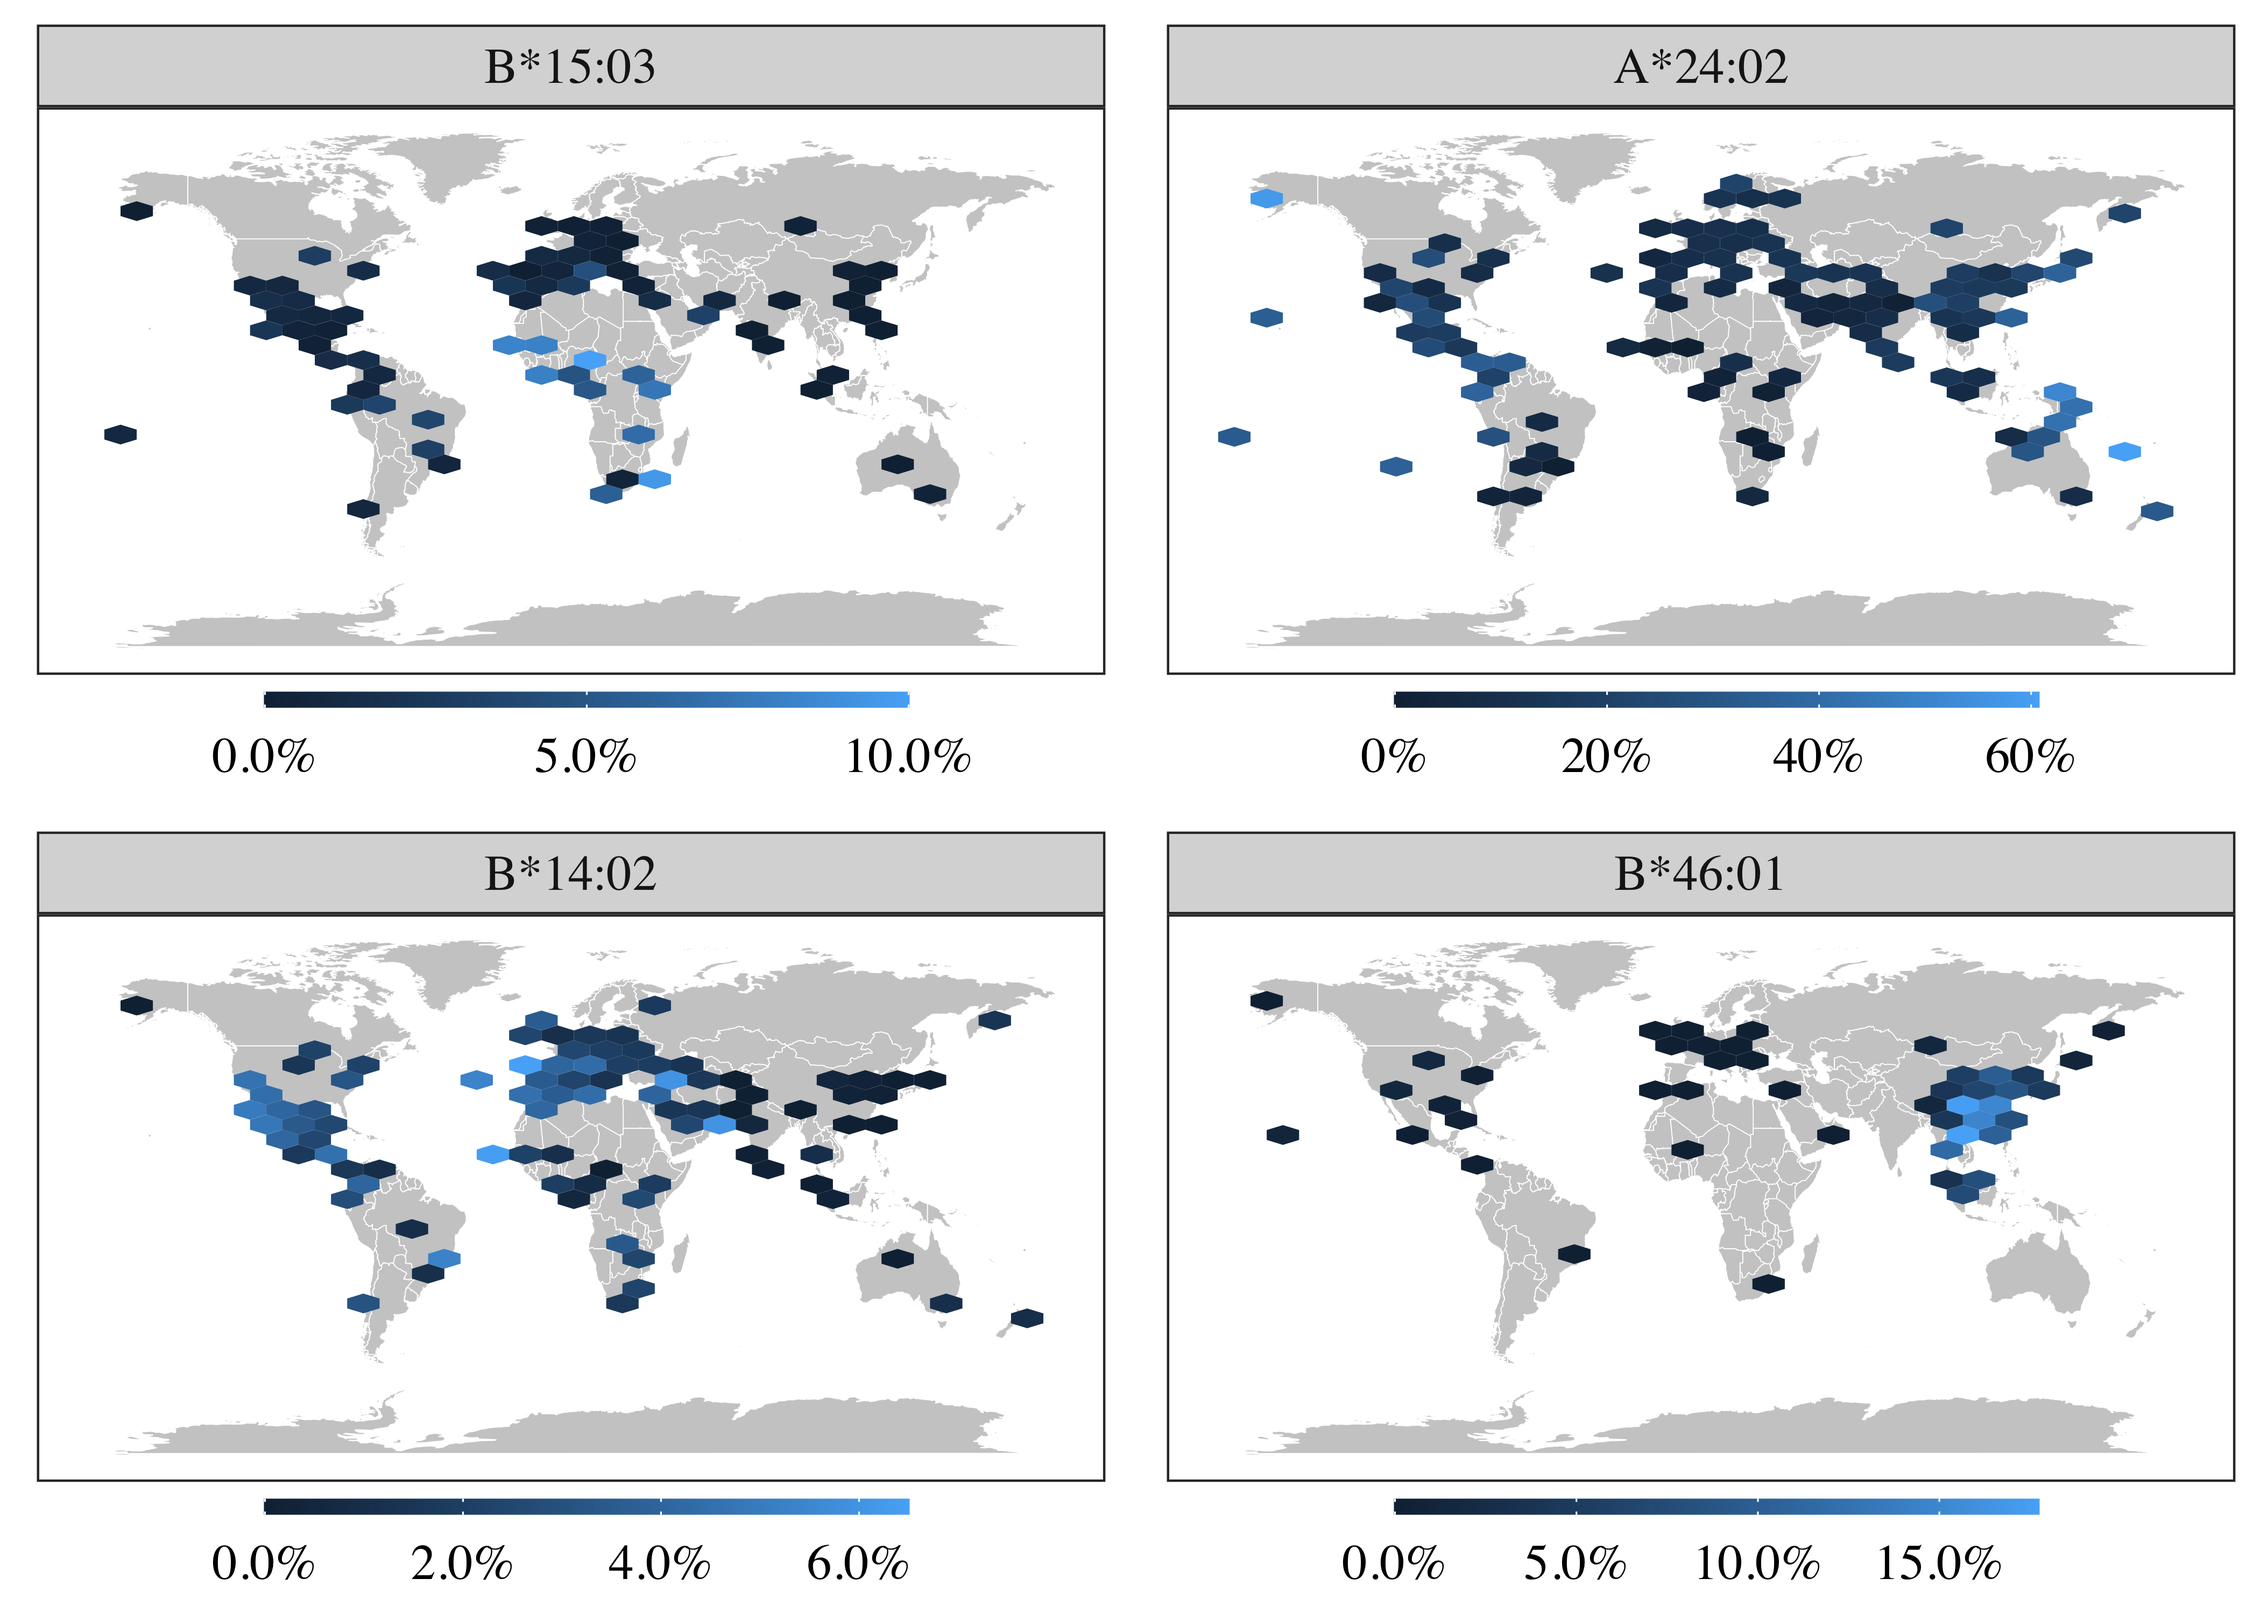
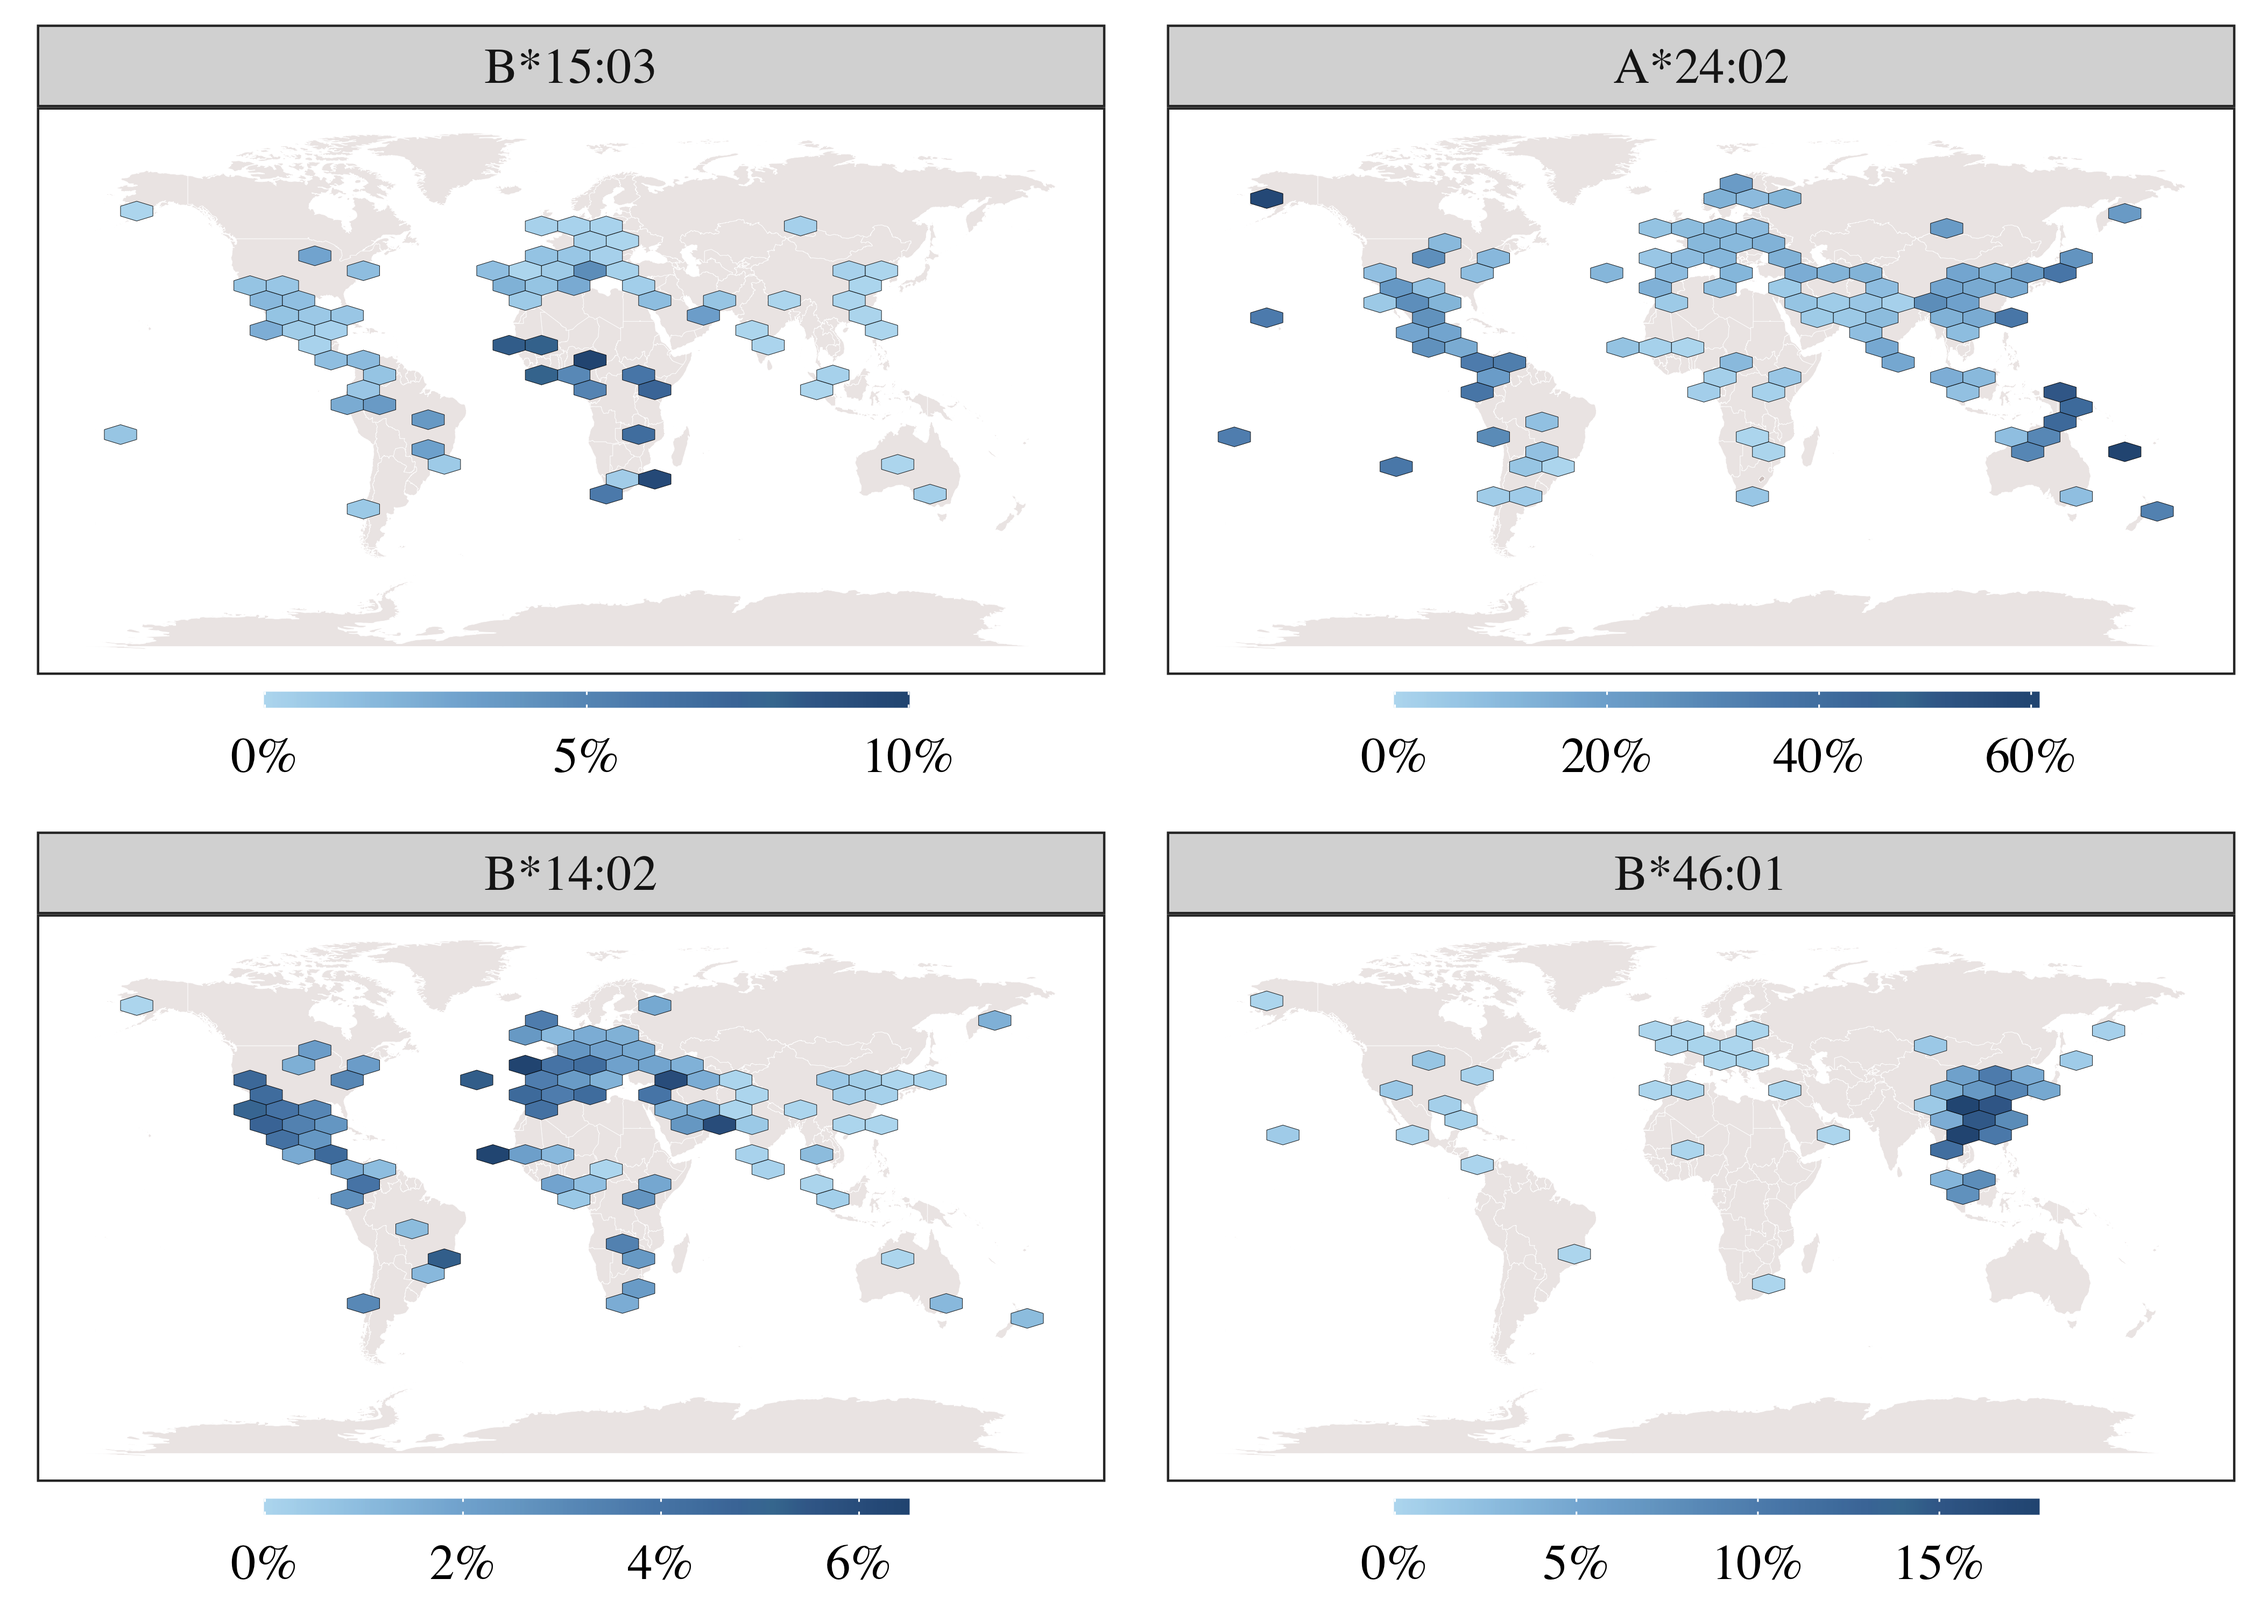
choose final plot

diff --git a/HLApeloMundo.md b/HLApeloMundo.md
@@ -7,7 +7,7 @@ HLA pelo mundo
 library(tidyverse)
 library(rvest)
 #instalações também requeridas: 
-# install.packages(c("hexbin", "cowplot", "maps"))
+# install.packages(c("hexbin", "cowplot", "maps", "ggthemes"))
 ```
 
 ### Funções
@@ -43,15 +43,16 @@ plotmap <- function(df_x) {
     ggplot() +
         geom_map(data = world, map = world,
                  aes(long, lat, map_id = region),
-                 color = "white", fill = "grey80", size = .1) +
+                 color = "white", fill = "#b6a19e", alpha = .25, size = .05) +
         stat_summary_hex(data = df_x, 
-                         aes(long, lat, z = f)) +
-        scale_fill_gradient(NULL,
-                            labels = scales::percent,
-                            breaks = scales::pretty_breaks(3),
-                            guide = guide_colourbar(direction = "horizontal",
-                                                    barwidth = 10,
-                                                    barheight = .25)) +
+                         aes(long, lat, z = f), 
+                         color = "black", size = .05) +
+        ggthemes::scale_fill_gradient_tableau("Blue",
+                                               labels = function(x) scales::percent(x, accuracy=1),
+                                               breaks = scales::pretty_breaks(3),
+                                               guide = guide_colourbar(direction = "horizontal",
+                                                                       barwidth = 10,
+                                                                       barheight = .25)) +
         facet_wrap(~allele, ncol = 2) +
         theme_bw() +
         theme(axis.ticks = element_blank(),
@@ -61,7 +62,8 @@ plotmap <- function(df_x) {
               legend.position = "bottom",
               legend.margin = margin(0, 0, 0, 0),
               legend.box.margin = margin(-10, -10, 0, -10),
-              text = element_text(size = 14, family = "Times"))
+              text = element_text(size = 14, family = "Times")) +
+        labs(fill = NULL)
 }
 ```
 
@@ -149,8 +151,6 @@ allele_freqs_final <- allele_freqs_tidy %>%
 Os pontos de cada amostragem são projetados no mapa. Para pontos muito
 próximos, é tomada uma média das frequências (em bins).
 
-#### Opção 1
-
 ``` r
 world <- map_data("world")
 
@@ -164,87 +164,3 @@ knitr::include_graphics("frequency.png")
 ```
 
 ![](frequency.png)<!-- -->
-
-#### Opção 2
-
-``` r
-plotmap2 <- function(df_x) {
-    ggplot() +
-        geom_map(data = world, map = world,
-                 aes(long, lat, map_id = region),
-                 color = "white", fill = "grey80", size = .1) +
-        stat_summary_hex(data = df_x, 
-                         aes(long, lat, z = f)) +
-        ggthemes::scale_fill_gradient2_tableau(trans = "reverse",
-                                               labels = scales::percent,
-                                               breaks = scales::pretty_breaks(3),
-                                               guide = guide_colourbar(direction = "horizontal",
-                                                                       reverse = TRUE,
-                                                                       barwidth = 10,
-                                                                       barheight = .25)) +
-        facet_wrap(~allele, ncol = 2) +
-        theme_bw() +
-        theme(axis.ticks = element_blank(),
-              axis.text = element_blank(),
-              axis.title = element_blank(),
-              panel.grid = element_blank(),
-              legend.position = "bottom",
-              legend.margin = margin(0, 0, 0, 0),
-              legend.box.margin = margin(-10, -10, 0, -10),
-              text = element_text(size = 14, family = "Times")) +
-        labs(fill = NULL)
-}
-
-plot_list2 <- allele_freqs_final %>%
-    split(.$allele) %>%
-    map(plotmap2)
-
-hlamap2 <- cowplot::plot_grid(plotlist = plot_list2, ncol = 2)
-ggsave("frequency2.png", hlamap2, dpi = 600, width = 7, height = 5)
-knitr::include_graphics("frequency2.png")
-```
-
-![](frequency2.png)<!-- -->
-
-#### Opção 3
-
-``` r
-plotmap3 <- function(df_x) {
-    ggplot() +
-        geom_map(data = world, map = world,
-                 aes(long, lat, map_id = region),
-                 color = "grey80", fill = "antiquewhite", alpha = .5, size = .1) +
-        stat_summary_hex(data = df_x, 
-                         aes(long, lat, z = f), color = "grey50", size = .15) +
-        ggthemes::scale_fill_gradient2_tableau("Red-Black Diverging", 
-                                               trans = "reverse",
-                                               labels = scales::percent,
-                                               breaks = scales::pretty_breaks(3),
-                                               guide = guide_colourbar(direction = "horizontal",
-                                                                       reverse = TRUE,
-                                                                       barwidth = 10,
-                                                                       barheight = .25)) +
-        facet_wrap(~allele, ncol = 2) +
-        theme_bw() +
-        theme(axis.ticks = element_blank(),
-              axis.text = element_blank(),
-              axis.title = element_blank(),
-              panel.grid = element_blank(),
-              panel.background = element_rect(fill = "aliceblue"),
-              legend.position = "bottom",
-              legend.margin = margin(0, 0, 0, 0),
-              legend.box.margin = margin(-10, -10, 0, -10),
-              text = element_text(size = 14, family = "Times")) +
-        labs(fill = NULL)
-}
-
-plot_list3 <- allele_freqs_final %>%
-    split(.$allele) %>%
-    map(plotmap3)
-
-hlamap3 <- cowplot::plot_grid(plotlist = plot_list3, ncol = 2)
-ggsave("frequency3.png", hlamap3, dpi = 600, width = 7, height = 5)
-knitr::include_graphics("frequency3.png")
-```
-
-![](frequency3.png)<!-- -->
